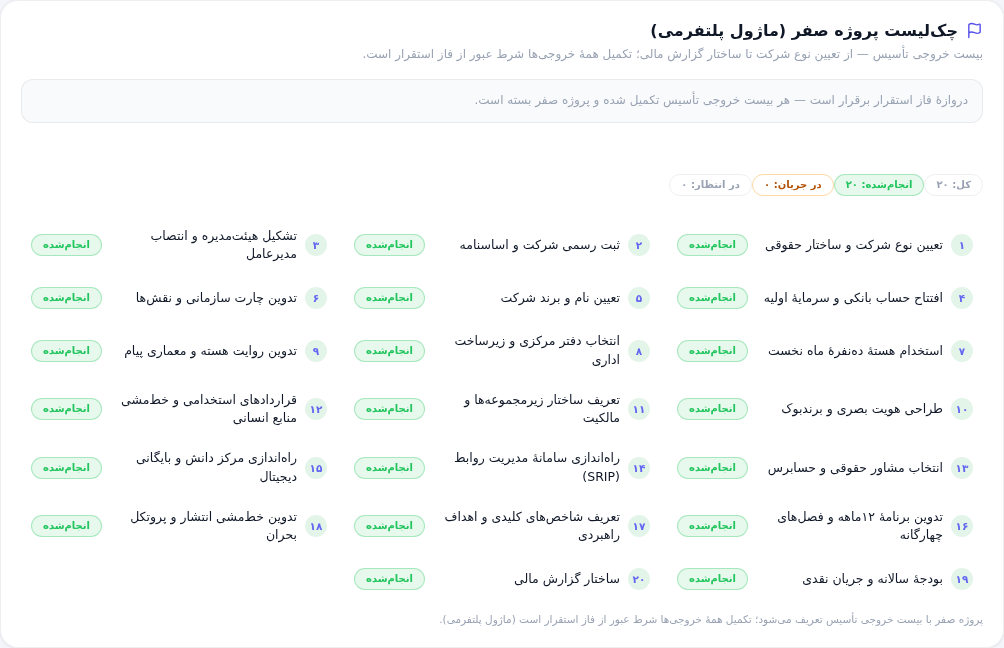
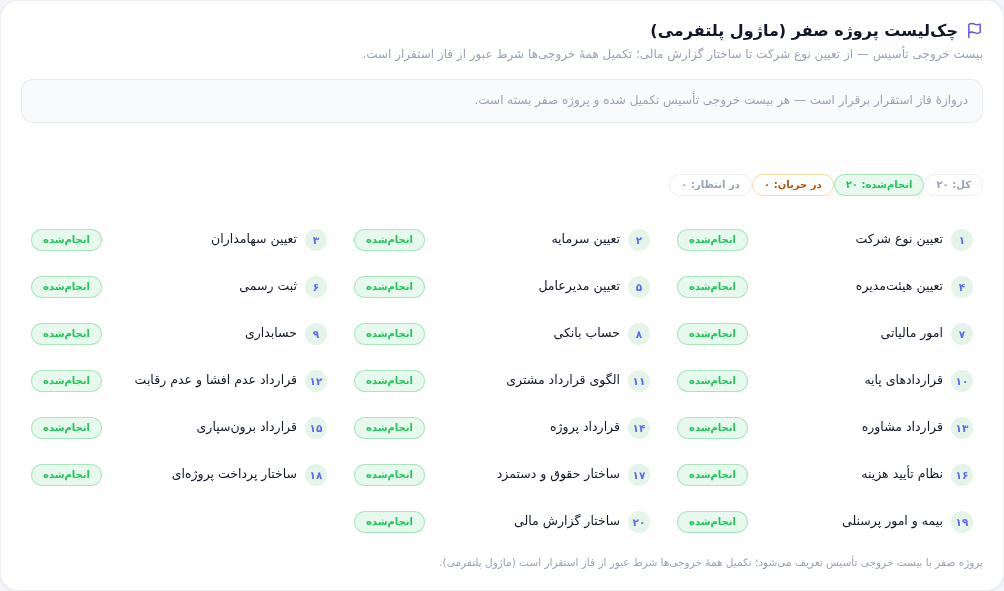
گام ۵.۲ — پروژه صفر v6: فهرست ۲۰ خروجی قراردادمحور (بخش ۵.۱ سند) + مهاجرت کلیدهای v3→v6 + بذر ۱۲/۳/۵ دمو + ۱۹ مدخل EN — api 570/0 (دو اجرا) · real-data-ui 101/0 · program-ui 57/0 · i18n 17/0

diff --git a/apps/web-ux/public/sw.js b/apps/web-ux/public/sw.js
@@ -8826,45 +8826,51 @@ function seedDelivery(){
   DB.programDelivery=[pars,demo];
 }
 
-/* ═══════════════ گام ۴.۶ — پروژه صفر: چکلیست پروژه صفر (پیوست ب سند) ═══════════════
-   بیست خروجی تأسیس — از تعیین نوع شرکت تا ساختار گزارش مالی. قاعدهٔ ثابت
-   سند: تکمیل همهٔ خروجیها شرط عبور از فاز استقرار است؛ وضعیت هر خروجی
+/* ═══════════════ گام ۵.۲ — پروژه صفر: چکلیست پروژه صفر (بخش ۵.۱ سند v6) ═══════════════
+   بیست خروجی تأسیس v6 — قراردادمحور: از تعیین نوع شرکت تا ساختار گزارش مالی.
+   قاعدهٔ ثابت سند: پروژه صفر در ماه نخست آغاز و حداکثر تا پایان ماه دوم تکمیل
+   میشود؛ تکمیل همهٔ خروجیها شرط عبور از فاز استقرار است؛ وضعیت هر خروجی
    per-organization ثبت میشود (قالب مشترک سند، دادهٔ هر مستأجر جدا). */
 const PROJECT_ZERO_ITEMS=[
-  {key:'company-type',     order:1,  title:'تعیین نوع شرکت و ساختار حقوقی'},
-  {key:'registration',     order:2,  title:'ثبت رسمی شرکت و اساسنامه'},
-  {key:'board',            order:3,  title:'تشکیل هیئتمدیره و انتصاب مدیرعامل'},
-  {key:'bank-account',     order:4,  title:'افتتاح حساب بانکی و سرمایهٔ اولیه'},
-  {key:'brand-name',       order:5,  title:'تعیین نام و برند شرکت'},
-  {key:'org-chart',        order:6,  title:'تدوین چارت سازمانی و نقشها'},
-  {key:'core-hiring',      order:7,  title:'استخدام هستهٔ دهنفرهٔ ماه نخست'},
-  {key:'office',           order:8,  title:'انتخاب دفتر مرکزی و زیرساخت اداری'},
-  {key:'core-narrative',   order:9,  title:'تدوین روایت هسته و معماری پیام'},
-  {key:'visual-identity',  order:10, title:'طراحی هویت بصری و برندبوک'},
-  {key:'subsidiaries',     order:11, title:'تعریف ساختار زیرمجموعهها و مالکیت'},
-  {key:'hr-policies',      order:12, title:'قراردادهای استخدامی و خطمشی منابع انسانی'},
-  {key:'legal-counsel',    order:13, title:'انتخاب مشاور حقوقی و حسابرس'},
-  {key:'srip-setup',       order:14, title:'راهاندازی سامانهٔ مدیریت روابط (SRIP)'},
-  {key:'knowledge-center', order:15, title:'راهاندازی مرکز دانش و بایگانی دیجیتال'},
-  {key:'annual-program',   order:16, title:'تدوین برنامهٔ ۱۲ماهه و فصلهای چهارگانه'},
-  {key:'kpis',             order:17, title:'تعریف شاخصهای کلیدی و اهداف راهبردی'},
-  {key:'publishing-policy',order:18, title:'تدوین خطمشی انتشار و پروتکل بحران'},
-  {key:'budget',           order:19, title:'بودجهٔ سالانه و جریان نقدی'},
+  {key:'company-type',     order:1,  title:'تعیین نوع شرکت'},
+  {key:'capital',          order:2,  title:'تعیین سرمایه'},
+  {key:'shareholders',     order:3,  title:'تعیین سهامداران'},
+  {key:'board',            order:4,  title:'تعیین هیئتمدیره'},
+  {key:'ceo',              order:5,  title:'تعیین مدیرعامل'},
+  {key:'registration',     order:6,  title:'ثبت رسمی'},
+  {key:'tax',              order:7,  title:'امور مالیاتی'},
+  {key:'bank-account',     order:8,  title:'حساب بانکی'},
+  {key:'accounting',       order:9,  title:'حسابداری'},
+  {key:'base-contracts',   order:10, title:'قراردادهای پایه'},
+  {key:'customer-contract',order:11, title:'الگوی قرارداد مشتری'},
+  {key:'nda',              order:12, title:'قرارداد عدم افشا و عدم رقابت'},
+  {key:'consulting',       order:13, title:'قرارداد مشاوره'},
+  {key:'project-contract', order:14, title:'قرارداد پروژه'},
+  {key:'outsourcing',      order:15, title:'قرارداد برونسپاری'},
+  {key:'expense-system',   order:16, title:'نظام تأیید هزینه'},
+  {key:'payroll',          order:17, title:'ساختار حقوق و دستمزد'},
+  {key:'project-payments', order:18, title:'ساختار پرداخت پروژهای'},
+  {key:'insurance-hr',     order:19, title:'بیمه و امور پرسنلی'},
   {key:'finance-reports',  order:20, title:'ساختار گزارش مالی'},
 ];
 const PZ_STATUS_FA={PENDING:'در انتظار',IN_PROGRESS:'در جریان',DONE:'انجامشده'};
 function ensureProjectZeroSeed(){
   if(!Array.isArray(DB.projectZero)) DB.projectZero=[];
+  /* مهاجرت قالب (گام ۵.۲): ردیفهای persisted با کلیدهای قدیمی v3 با قالب v6
+     جایگزین میشوند — وضعیت چرخشِ تستپذیر از بذر تازه میآید */
+  const validKeys=new Set(PROJECT_ZERO_ITEMS.map(i=>i.key));
+  DB.projectZero=DB.projectZero.filter(z=>Array.isArray(z.items)&&z.items.length===PROJECT_ZERO_ITEMS.length&&z.items.every(it=>validKeys.has(it.key)));
   if(!DB.projectZero.some(z=>z.organizationId==='org-pars')){
-    /* جهان واقعی پارس: پروژه صفر در ماه نخست استقرار بسته شد (گزارش ماهانهٔ ماه ۱) */
+    /* جهان واقعی پارس: پروژه صفر در ماههای ۱–۲ سند v6 بسته شد (گزارش ماهانهٔ ماه ۱) */
     const ago=(d)=>new Date(Date.now()-d*86400000).toISOString();
     DB.projectZero.push({organizationId:'org-pars',
       items:PROJECT_ZERO_ITEMS.map(i=>({key:i.key,status:'DONE',doneAt:ago(150-i.order*2)}))});
   }
   if(!DB.projectZero.some(z=>z.organizationId==='org-1')){
-    /* دنیای دمو: در میانهٔ راه — دروازهٔ استقرار هنوز برقرار نیست */
-    const done=['company-type','registration','board','bank-account','brand-name','org-chart','core-hiring','office','core-narrative','visual-identity','subsidiaries','hr-policies'];
-    const prog=['legal-counsel','srip-setup','knowledge-center'];
+    /* دنیای دمو: در میانهٔ ماه دوم — تأسیس و قراردادهای نخست بسته، قراردادهای تخصصی در جریان،
+       نظامهای مالی/پرسنلی در انتظار (دروازهٔ استقرار هنوز برقرار نیست) */
+    const done=['company-type','capital','shareholders','board','ceo','registration','tax','bank-account','accounting','base-contracts','customer-contract','nda'];
+    const prog=['consulting','project-contract','outsourcing'];
     DB.projectZero.push({organizationId:'org-1',
       items:PROJECT_ZERO_ITEMS.map(i=>({key:i.key,
         status:done.includes(i.key)?'DONE':prog.includes(i.key)?'IN_PROGRESS':'PENDING',doneAt:null}))});

diff --git a/apps/web-ux/app/_lib/i18n-dict-c.ts b/apps/web-ux/app/_lib/i18n-dict-c.ts
@@ -1461,4 +1461,25 @@ export const EN_DICT_C: Record<string, string> = {
   'حاکمیت برنامه → اهداف راهبردی': 'Program governance → strategic goals',
   'مشارکت\u200cها؛ توسعه: فاز ۱۰': 'Partnerships; extension: phase 10',
   'حاکمیت برنامه → ریسک\u200cها؛ ستون\u200cهای AI: فاز ۹': 'Program governance → risks; AI columns: phase 9',
+
+  /* ═══ گام ۵.۲ — پروژه صفر v6 (بخش ۵.۱ سند): بیست خروجی تأسیس ═══ */
+  'تعیین نوع شرکت': 'Determine the company type',
+  'تعیین سرمایه': 'Determine the capital',
+  'تعیین سهامداران': 'Determine the shareholders',
+  'تعیین هیئت\u200cمدیره': 'Appoint the board of directors',
+  'تعیین مدیرعامل': 'Appoint the CEO',
+  'ثبت رسمی': 'Official registration',
+  'امور مالیاتی': 'Tax affairs',
+  'حساب بانکی': 'Bank account',
+  'حسابداری': 'Accounting',
+  'قراردادهای پایه': 'Base contracts',
+  'الگوی قرارداد مشتری': 'Customer contract template',
+  'قرارداد عدم افشا و عدم رقابت': 'NDA & non-compete agreement',
+  'قرارداد مشاوره': 'Consulting agreement',
+  'قرارداد پروژه': 'Project contract',
+  'قرارداد برون\u200cسپاری': 'Outsourcing agreement',
+  'نظام تأیید هزینه': 'Expense approval system',
+  'ساختار حقوق و دستمزد': 'Salary & payroll structure',
+  'ساختار پرداخت پروژه\u200cای': 'Project-based payment structure',
+  'بیمه و امور پرسنلی': 'Insurance & personnel affairs',
 };

diff --git a/docs/مسترپلن-v6-سامانه-هوشمند-SRIP.md b/docs/مسترپلن-v6-سامانه-هوشمند-SRIP.md
@@ -149,7 +149,7 @@ POST                   /ai/content/:id/draft     # پیشنویس محتوا 
 
 ### فاز ۵ — همترازی جهان دمو با سند v6 (برچسبها و بذرها)
 - [x] ۵.۱ کاتالوگ فرمهای F01–F18 — بازبرچسبگذاری کامل ۲۴۲ ارجاع در ۱۳ فایل (پایتون `apps/web-ux/scripts/relabel-v6-forms.py`، ترتیب پیشوندی): فرمهای v3 → کدهای v6 (رقیب→F04 · دارایی برند→F05 · تقویم رسانه→F06 · تأیید محتوا→F08 · رویداد→F10 · انتقال سامانه→F11 · مشارکت→F15 · ریسک→F17) و شش ماژول بدون معادل به «ماژول پلتفرمی» بدون کد (چکلیست پروژه صفر · شناخت · شاخصها · تأیید هزینه · گزارش ماهانه · صورتجلسهٔ تحویل — تحویل عمداً کد نمیگیرد چون F18 v6 کارت دیگری است)؛ شامل دیکشنری EN (۴۲ مدخل جدید) و همگامسازی خودکار انتظارات api-tests و باتریها (همان رشتهها). کارت «کاتالوگ فرمهای سند (F01–F18)» در نمای کلی /program: جدول ۱۸ ردیفه (کد/فرم/وضعیت/محل) با نشان موجود(۹)/در برنامه(۹) + یادداشت ماژولهای پلتفرمی. جار گام: api 570/0 · program-ui 57/0 (+۳ چک کاتالوگ) · real-data-ui 101/0 · partnerships 18/0 · intel ALL GREEN · i18n 17/0 · locale 7/0 · ui-consistency 12/0 · دکمهها fail=0 (۸۵۲ کلیک/۵۶ صفحه/۳۱ NOOP) · tsc 0. اسکرینشات: program/24-form-catalog. کامیتها: 781c4ec17 (بازبرچسب) + این کامیت (کاتالوگ). یادگیری: ریست نهم محیط وسط گام رخ داد (ویرایشهای کامیتنشده پاک شدند) → از این پس کامیت ایست بازرسی پس از هر بخش آزمونشده.
-- [ ] ۵.۲ پروژه صفر v6 — جایگزینی ۲۰ خروجی (نوع شرکت/سرمایه/سهامداران/هیئتمدیره/مدیرعامل/ثبت/مالیاتی/حساب بانکی/حسابداری/قراردادهای پایه/قرارداد مشتری/عدم افشا و عدم رقابت/مشاوره/پروژه/برونسپاری/نظام تأیید هزینه/حقوق و دستمزد/پرداخت پروژهای/بیمه/گزارش مالی) در قالب per-tenant موجود؛ دروازهٔ «پایان فاز استقرار» همان منطق قبلی. بذر: مستأجر دمو = مطابق تقویم ماه ۱–۲ v6 (نیمهکاره برای مسیر چرخش).
+- [x] ۵.۲ پروژه صفر v6 — جایگزینی ۲۰ خروجی با فهرست قراردادمحور بخش ۵.۱ v6 (تعیین نوع شرکت/سرمایه/سهامداران/هیئتمدیره/مدیرعامل → ثبت رسمی/مالیاتی/حساب بانکی/حسابداری → شش قرارداد: پایه/مشتری/عدم افشا و عدم رقابت/مشاوره/پروژه/برونسپاری → نظام تأیید هزینه/حقوق و دستمزد/پرداخت پروژهای/بیمه و پرسنلی/گزارش مالی) با کلیدهای تازه + **مهاجرت قالب**: ردیفهای persisted با کلید v3 هنگام بارگذاری حذف و بذر مجدد میشوند (اثر جانبی مفید: اجرای دوم api-tests روی DB آلوده هم سبز ماند). بذر پارس = هر ۲۰ انجامشده (ماههای ۱–۲ v6) · دمو = ۱۲ انجام + ۳ قرارداد تخصصی در جریان + ۵ نظام مالی/پرسنلی در انتظار. ادعاهای باتری (۲۰ قلم/اول «نوع شرکت»/آخر «ساختار گزارش مالی») بدون تغییر برقرار. ۱۹ مدخل EN جدید. جار گام: api 570/0 (دو اجرا) · real-data-ui 101/0 · program-ui 57/0 · i18n 17/0 · tsc 0. شات 23-project-zero بازتولید شد.
 - [ ] ۵.۳ چارت v6 — بذر programSettings دمو: ۳۴ نقش/۳۷ نفر/۵ لایه (رهبری و حاکمیت ۵ · مدیریت تخصصی ۱۲ · فناوری، داده و اعتماد ۷ · کارشناسی و اجرا ۶+ · پشتیبانی) با «زمان ورود ماه هدف»؛ نقشهای AI برجسته. مستأجر پارس/تازه = خالی (قاعدهٔ per-tenant پابرجا). اثر جانبی: فیلتر «مالک از چارت» در فرمهای موجود خودکار تازه میشود.
 - [ ] ۵.۴ رسانه و اندیشکدهٔ v6 — هفت ستون جدید تقویم رسانه (F06 + گروه PESO چهارگانه در مودال) + پنل «تقویم خروجی اندیشکده» (۷ نوع خروجی/تعداد/ماه/حجم هدف — جدول ۱۵.۱) در همان پنل تقویم؛ بذر خروجیهای در جریان. باتری: real-data-ui · i18n.
 - [ ] ۵.۵ مرجعیت v6 + F14 — تطبیق بذر هدف راهبردی دمو با متن موبهموی v6 (نام سازمان «فناوران هوش مصنوعی پارس ایرانیان»، ۹ مؤلفه همان اعداد، ۲۵ پرامپت سهدسته) + برچسب F14 روی جدول پایش + تغییر برچسب لایهٔ ششم آمادگی به «ورود» با ستون معیار پذیرش.
